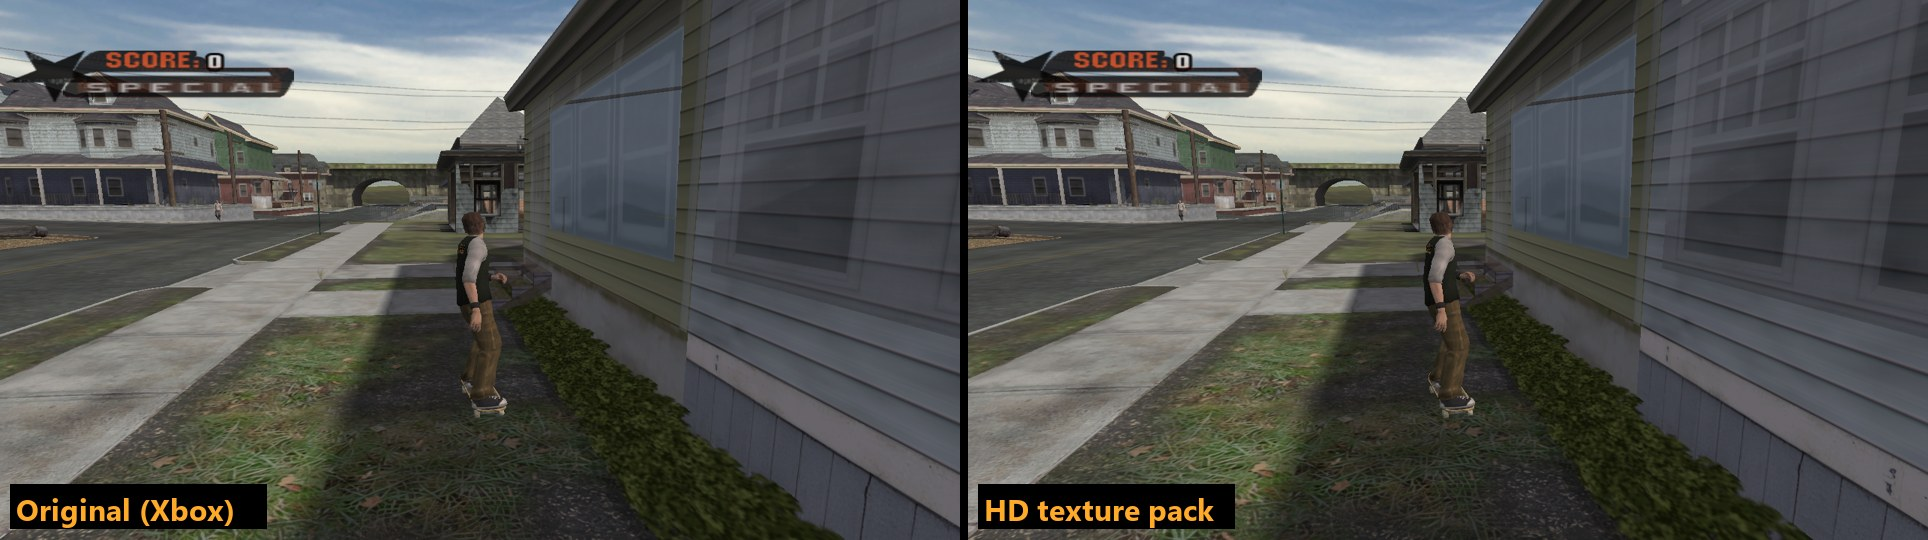
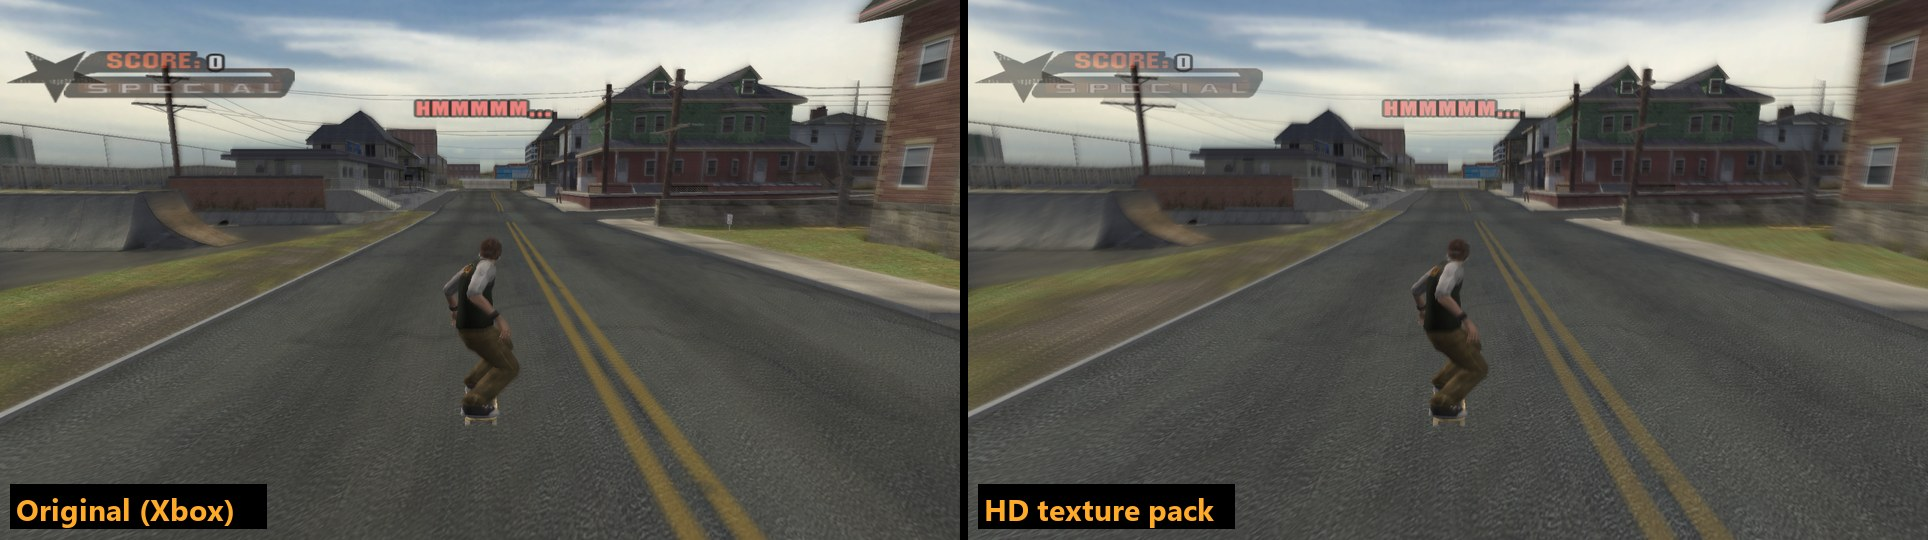
HD A/B fix, anisotropic filtering
- UG_SHOTAB: frame_no is still N while frame N+1 is drawn, so the "without
  HD" frame was drawn with HD too (every A/B pair was HD vs HD). Fixed.
- Anisotropic filtering (UG_ANISO, default 16x, 0 = off) for mipmapped
  linear textures: ground and walls at an angle keep their detail.
- README comparison image redone with a correct A/B frame.

Claude-Session: https://claude.ai/code/session_01JYzPseC2DJZuhaFYBPRHMa

diff --git a/runtime/src/gpu_vulkan.c b/runtime/src/gpu_vulkan.c
@@ -32,6 +32,7 @@
 #include "xxhash.h"
 
 static int has_depth_clamp;
+static float g_aniso;   /* max sampler anisotropy, 0 = off (UG_ANISO) */
 static int has_bc = 1;   /* textureCompressionBC: most Mali and older Adreno GPUs lack it (UG_NOBC=1 forces the CPU path) */
 static VkSurfaceTransformFlagBitsKHR sc_transform;
 static int g_scale = 2;   /* UG_SCALE=1..8: host render-target scale over the guest resolution */
@@ -936,7 +937,8 @@ volatile int g_hd_hidden;
 static int hd_shot_ab = -1, shot_every = -1;
 static VkImageView tex_view(TexEntry *e) {
     if (hd_shot_ab < 0) { const char *a = getenv("UG_SHOTAB"); hd_shot_ab = a && *a == '1'; }
-    int off = g_hd_hidden || (hd_shot_ab && shot_every > 0 && frame_no % (uint32_t)shot_every == 1);
+    /* frame_no counts flips: while frame N+1 is drawn, frame_no is still N */
+    int off = g_hd_hidden || (hd_shot_ab && shot_every > 0 && frame_no % (uint32_t)shot_every == 0);
     return e->hd > 0 && e->hdim.img && !off ? e->hdim.view : e->im.view;
 }
 
@@ -1105,6 +1107,10 @@ static VkSampler get_sampler(int i, int rect) {
     ci.mipmapMode = mip_lin ? VK_SAMPLER_MIPMAP_MODE_LINEAR : VK_SAMPLER_MIPMAP_MODE_NEAREST;
     ci.addressModeU = addr_mode(a & 0xF); ci.addressModeV = addr_mode((a >> 8) & 0xF); ci.addressModeW = addr_mode((a >> 16) & 0xF);
     ci.maxLod = mips && !rect ? 16.0f : 0.0f;
+    if (g_aniso > 0 && mips && min_lin && !rect) {
+        ci.anisotropyEnable = VK_TRUE;
+        ci.maxAnisotropy = g_aniso < pprops.limits.maxSamplerAnisotropy ? g_aniso : pprops.limits.maxSamplerAnisotropy;
+    }
     ci.borderColor = (b >> 24) < 0x80 ? VK_BORDER_COLOR_FLOAT_TRANSPARENT_BLACK :
                      (b & 0xFFFFFF) > 0x808080 ? VK_BORDER_COLOR_FLOAT_OPAQUE_WHITE : VK_BORDER_COLOR_FLOAT_OPAQUE_BLACK;
     VkSampler s = 0;
@@ -1317,6 +1323,12 @@ static int vk_init(void) {
         vkGetPhysicalDeviceFeatures(pdev, &have);
         f2.features.depthClamp = have.depthClamp;
         has_depth_clamp = have.depthClamp;
+        /* anisotropic filtering (UG_ANISO=1..16, default 16; 0/1 = off): ground and walls seen at an angle keep their
+         * detail instead of falling to small mips (the NV2A had none; matters most with UG_SCALE > 1 and HD packs) */
+        const char *an = getenv("UG_ANISO");
+        g_aniso = an ? (float)atof(an) : 16.0f;
+        if (!have.samplerAnisotropy || g_aniso < 1.5f) g_aniso = 0;
+        f2.features.samplerAnisotropy = g_aniso > 0;
         const char *nobc = getenv("UG_NOBC");
         has_bc = have.textureCompressionBC && !(nobc && *nobc == '1');
         f2.features.textureCompressionBC = (VkBool32)has_bc;
